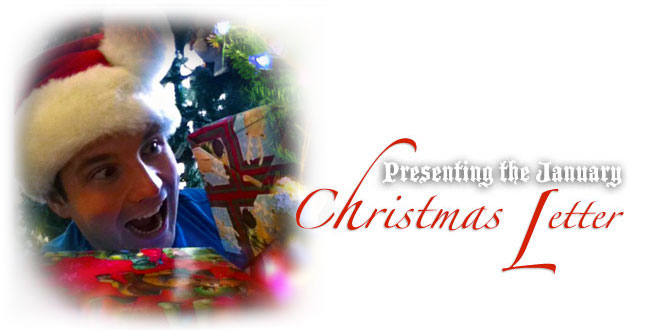
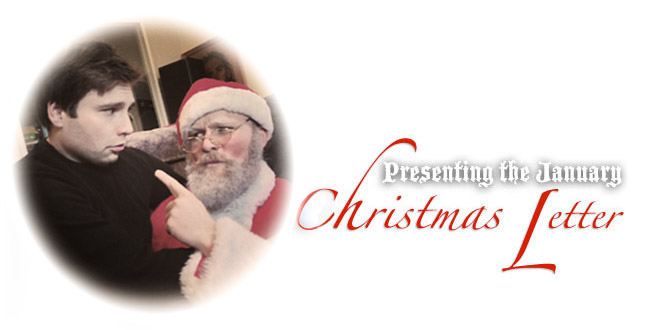
2012 Christmas Letter!

diff --git a/xmas2012/index.html b/xmas2012/index.html
@@ -1,7 +1,7 @@
 <!DOCTYPE html PUBLIC "-//W3C//DTD XHTML 1.0 Transitional//EN" "http://www.w3.org/TR/xhtml1/DTD/xhtml1-transitional.dtd">
 <html>
   <head>
-    <title>Jon Suderman&#x27;s 2011 Christmas Newsletter</title>
+    <title>Jon Suderman&#x27;s 2012 Christmas Newsletter</title>
     <meta content="no" http-equiv="imagetoolbar" />
     <meta content="IE=EmulateIE7" http-equiv="X-UA-Compatible" />
 
@@ -24,7 +24,7 @@ tbody, tfoot, thead, tr, th, td { margin: 0; padding: 0; border: 0; outline: 0; 
   body { background: #fff; color: #222; font-family: Georgia, Garamond, serif; }
   h1 { font-size: 26px; margin: 0 0 15px 0; line-height: 1.2; letter-spacing:3px;}
   p { font-size: 15px; margin: 0 0 15px 0; line-height: 2; text-align:justify; }
-  a { color: #d10b0b; text-decoration: underline; }
+  a { color: #d10b0b; ccolor: #555; text-decoration: underline; }
   a:hover { text-decoration: underline; }
   a:focus { outline: 0; }
   span.first { color:#d10b0b; font-size:30px; font-weight:normal; line-height:1;} 
@@ -34,7 +34,7 @@ tbody, tfoot, thead, tr, th, td { margin: 0; padding: 0; border: 0; outline: 0; 
 
 
   </head>
-  <body style="background:#fff url(http://suderman.me/xmas2011/bg.gif) top center repeat-y; color: #222; font-family: Georgia, Garamond, serif;">
+  <body style="background:#fff url(http://suderman.me/xmas2012/bg.gif) top center repeat-y; color: #222; font-family: Georgia, Garamond, serif;">
     <table cellpadding="0" cellspacing="10" width="100%">
       <tr>
         <td align="center" valign="top">
@@ -44,7 +44,7 @@ tbody, tfoot, thead, tr, th, td { margin: 0; padding: 0; border: 0; outline: 0; 
                 <table cellpadding="0" cellspacing="0" width="650">
                   <tr>
                     <td>
-                      <img src="http://suderman.me/xmas2011/masthead.jpg" width="650" height="330" />
+                      <img src="http://suderman.me/xmas2012/masthead.jpg" width="650" height="330" />
                     </td>
                   </tr>
                 </table>
@@ -52,87 +52,127 @@ tbody, tfoot, thead, tr, th, td { margin: 0; padding: 0; border: 0; outline: 0; 
                   <tr>
                     <td>
 
-                      <h1 style="font-family: Georgia, Garamond, serif; color:#222; font-size:30px; font-weight:normal; line-height:1;">Holly jolly greetings to y&#x27;all.</h1>
+<h1 style="font-family: Georgia, Garamond, serif; color:#222; font-size:30px; font-weight:normal; line-height:1;">
+  Hark! Jon Suderman's 2012 Newsletter!</h1>
 
-                      <p style="font-family: Georgia, Garamond, serif; color: #222; font-size: 15px; margin: 0 0 15px 0; line-height: 2; text-align:justify;"><strong><span class="first" style="color:#d10b0b; font-size:30px; font-weight:normal; line-height:1;">I</span> bet you all thought I forgot, didn&#x27;t you? Wrongo!</strong> Once again, twelve months have passed and the time has come for another recap on Jon Suderman's year. So far, I&#x27;ve spammed my friends &amp; family with this particular newsletter <em>three times</em>; seeing how no one has complained yet, let&#x27;s up that count to <em>four!</em></p>
+<p style="font-family: Georgia, Garamond, serif; color: #222; font-size: 15px; margin: 0 0 15px 0; line-height: 2; text-align:justify;"><strong><span class="first" style="color:#d10b0b; font-size:30px; font-weight:normal; line-height:1;">
+  A</span>s expected,</strong> the week between Christmas and New Years prompts pensive reflections on the twelve months gone by. Twenty-twelve was very good to me and I'm feeling over-blessed. As is the tradition (and until you ask me to stop), I'll recap my life's narrative this past year:
+</p>
 
-                      <img align="right" src="http://suderman.me/xmas2011/cake.jpg" width="250" height="290" />
+<img align="right" src="http://suderman.me/xmas2012/snow.jpg" width="300" height="380" /> 
 
-                      <p style="font-family: Georgia, Garamond, serif; color: #222; font-size: 15px; margin: 0 0 15px 0; line-height: 2; text-align:justify;"><strong><span class="first" style="color:#d10b0b; font-size:30px; font-weight:normal; line-height:1;">J</span>anuary 2011 feels like a really long time ago.</strong> Plenty hasn&#x27;t changed since the previous year: I still live in the Calgary southwest, in a house co-owned with my brother, Andrew. Our delightful tenant, Braden, quietly occupies the basement. He complains very little; only my midnight snacking in the kitchen directly above his bedroom disturbs his slumber&hellip; an activity I ought not participate, in the first place. Across the dividing line, my parents live in the Calgary southeast, with my sister still under their wing. Cold Canadian winters prompt many visits, ever since they&#x27;ve installed their new hot tub. Given how delightful my company is, they don&#x27;t mind.</p>
+<p style="font-family: Georgia, Garamond, serif; color: #222; font-size: 15px; margin: 0 0 15px 0; line-height: 2; text-align:justify;"><strong><span class="first" style="color:#d10b0b; font-size:30px; font-weight:normal; line-height:1;">
+  J</span>anuary 2012 springboarded a lot of new experiences my way,</strong> thanks to my budding relationship with Janessa. We had been matched on eHarmony in November and had our first date one month later at the <a href="http://www.calgaryzoo.com/zoolights/">Calgary Zoo</a>. All of a sudden, my recreational time was filled with frequent visits to the country, horseback riding, and <em><a href="http://www.albertadancesport.com/workshops/index.aspx">even dancing lessons!</a></em> We embarked on our first escapade snowshoeing across the Alberta-British Columbia border to <a href="http://www.alpineclubofcanada.ca/facility/elklakes.html">Elk Lakes Cabin</a> (this was winter beauty at its finest). And on many occasions, my ears were treated to personal concerts, courtesy of Nessie's musical talent. Life was really, really good. :-) </p>
 
-<img align="left" src="http://suderman.me/xmas2011/car.jpg" width="328" height="297" />
+<p style="font-family: Georgia, Garamond, serif; color: #222; font-size: 15px; margin: 0 0 15px 0; line-height: 2; text-align:justify;"><strong><span class="first" style="color:#d10b0b; font-size:30px; font-weight:normal; line-height:1;">
+  F</span>ebruary was loaded with adventure!</strong> We started off with a weekend getaway to the Banff Spring Hotel, along with the dodgeball team&mdash;the roster including Andrew, Jessica, Braden, Dan &amp; Emily, Doreen, Donna &amp; Ross (Honeybadgers don't care)! Thanks to the goodness of Doreen (and Andrew's pestering), I've had the treat of staying in that castle more often than what's fair! 
+  
+<img src="http://suderman.me/xmas2012/cruise.jpg" width="650" height="355" />
 
-                      <p style="font-family: Georgia, Garamond, serif; color: #222; font-size: 15px; margin: 0 0 15px 0; line-height: 2; text-align:justify;"><strong><span class="first" style="color:#d10b0b; font-size:30px; font-weight:normal; line-height:1;">F</span>ebruary was a much busier month!</strong> My dodgeball team packed our bags and road tripped northward for the Battle of Alberta tournament in Red Deer. How did we place? Well that&#x27;s not important. The <em>important</em> thing is that we had fun! (and that we did NOT place dead last...)</p>
+<p style="font-family: Georgia, Garamond, serif; color: #222; font-size: 15px; margin: 0 0 15px 0; line-height: 2; text-align:justify;">
+And that was only the beginning, because the next week Janessa, Andrew, Jess and I hopped a plane to meet the Leclairs (Uncle Andy, Aunt LaVonne, cousins Jayden &amp; Jenna) in Tampa, Florida. We spent the day at Busch Gardens (it's a rollercoaster zoo!) before meeting my parents and grandparents on a Caribbean cruise ship, destined for big family-fun-time! Mom loves family-fun-time. After visiting Grand Cayman, Cozumel, Belize (<em>it was un-belize-able!</em>) and Roatan, Janessa took the main stage braving 2000 fans and performed as Britney Spears in the cruise ship's singing competition spectacular. Really! Complete with costume and backup-dancers, she brought down the ship!</p>
 
-<p style="font-family: Georgia, Garamond, serif; color: #222; font-size: 15px; margin: 0 0 15px 0; line-height: 2; text-align:justify;">Next big event? I learned how to drive a manual transmission. This was out of necessity seeing how the car I bought wasn&#x27;t an automatic and I&#x27;ve never touched a clutch in my life. Yes, I finally retired the Squirrel-love breakfast-mobile (1993 Intrepid), and adopted a 2007 Imprezza. I love my lil' Subie, but <em>it</em> must have hated <em>me</em> those first few weeks; I stalled the poor engine more often than I care to recall. It was worth it, though! And now driving is fun again. :-)</p>
+<img src="http://suderman.me/xmas2012/pool.jpg" width="650" height="410" /> 
 
-<img src="http://suderman.me/xmas2011/vegas.jpg" width="650" height="514"  /> 
+<p style="font-family: Georgia, Garamond, serif; color: #222; font-size: 15px; margin: 0 0 15px 0; line-height: 2; text-align:justify;">
+Back on land, we rounded of the trip with our obligatory visit to Walt Disney World and got our fix of Mickey-magic. The new <a href="https://www.youtube.com/watch?v=E8_znMKh8qM">Fantasyland expansion</a> wasn't open yet, but that's the perfect excuse to visit again soon. We also couldn't pass up Universal Studio's Islands of Adventure to see the new <a href="http://www.universalorlando.com/harrypotter/">Wizarding World of Harry Potter</a> and gulp down our very first butter beer! Shockingly, I'm pretty sure there wasn't any actual <em>beer</em> in it.</p>
+ 
+<img align="right" src="http://suderman.me/xmas2012/butterbeer.jpg" width="260" height="245" />
 
+<p style="font-family: Georgia, Garamond, serif; color: #222; font-size: 15px; margin: 0 0 15px 0; line-height: 2; text-align:justify;"><strong><span class="first" style="color:#d10b0b; font-size:30px; font-weight:normal; line-height:1;">
+  M</span>arch was a chance to take a breather from all the travelling.</strong> It was also time for me to being my training as the Calgary Marathon was only three months away! With the help of my boss and his big truck, I purchased a (<em>very heavy</em>) gym-grade treadmill for my basement. It's actually the exact same model I used to run on at the gym. So long, 8-year membership at the YMCA! And to make sure the treadmill didn't become an expensive laundry rack, I installed a 39" TV on the wall with a 5.1 suround-sound system to keep me active. It's fantastic motivation!</p>
 
+<img align="left" src="http://suderman.me/xmas2012/maui.jpg" width="250" height="245" />
 
-<p style="font-family: Georgia, Garamond, serif; color: #222; font-size: 15px; margin: 0 0 15px 0; line-height: 2; text-align:justify;">Later that month, my siblings and dodgeball team packed our bags AGAIN. This time, the excuse was a trip to Las Vegas&mdash;escaping Calgary&#x27;s unforgiving weather. We stayed in the Paris hotel, watched Cirque Du Soleil, took in the Phantom of the Opera, shouted at the Tournament of Kings, and screamed during The Price is Right (&quot;Andrew Suderman, come on doooown!&quot;). Don't worry, mom; only wholesome memories in Sin City!</p>
+<p style="font-family: Georgia, Garamond, serif; color: #222; font-size: 15px; margin: 0 0 15px 0; line-height: 2; text-align:justify;"><strong><span class="first" style="color:#d10b0b; font-size:30px; font-weight:normal; line-height:1;">
+  A</span>pril kicked off with the annual pranks one expects.</strong> This year, Jessica shrink-wrapped my car (Andrew's too!) but we were quick to retaliate. She left incriminating evidence at the crime scene (her cell phone), so we returned it... secured to the ceiling (where she would hear it ring, but never be able to find). Additionally, we nailed shut her bedroom with a large <em>CONDEMNED</em> sign. Ahh... brotherly satisfaction!</p>
 
-<img align="right" src="http://suderman.me/xmas2011/dodgeball.jpg" width="250" height="279" />
+<img align="right" src="http://suderman.me/xmas2012/beach.jpg" width="300" height="324" /> 
 
-                      <p style="font-family: Georgia, Garamond, serif; color: #222; font-size: 15px; margin: 0 0 15px 0; line-height: 2; text-align:justify;"><strong><span class="first" style="color:#d10b0b; font-size:30px; font-weight:normal; line-height:1;">M</span>arch hit, and we thought: why not join another dodgeball tournament?</strong> This one was &quot;country club&quot;-themed, and although we didn&#x27;t win the tourney, we DID win the best photo contest! And no, we did not actually <em>use</em> the tennis rackets while playing dodgeball. Later that month, we stayed at the Chateau Lake Louise for a ski-trip with Doreen and friends (as always, she&#x27;s our secret weapon against expensive hotels!). Ritzy buffets are delicious, but they're doubley-delicious at half the price! Doreen, you are never ever allowed to quit your Sheraton job. ;-)</p>
+<p style="font-family: Georgia, Garamond, serif; color: #222; font-size: 15px; margin: 0 0 15px 0; line-height: 2; text-align:justify;">After that April foolishness, I joined Ness and her family in Maui for a little Hawaiian relaxation. I stayed in some random lady's house (<a href="https://www.airbnb.ca/">Airbnb</a>) only a short walk away from Ness, Luke and her parents, Kevin &amp; Connie. I experienced my first tropical Easter&mdash;complete with a Polynesian-style worship service and a Cadbury mini-egg hunt! They spoiled me and I loved it. It took great discipline, but I stuck to my marathon training schedule and enjoyed the most beautiful (and warmest!) training runs I've ever done. Once those were out of the way, it was all white sand and shaved ice. Hawaii is heavenly and it won't surprise me if I find myself living there one day. Oh, and in case you ever visit Maui, go see <a href="http://www.warrenandannabelles.com/">Warren &amp; Annabelle's Magic Show</a>... but beware of Little Beach&mdash;it's all naked and awkward.</p>
 
-<img align="left" src="http://suderman.me/xmas2011/run.jpg" width="328" height="375" />
+<img align="left" src="http://suderman.me/xmas2012/marathon.jpg" width="312" height="398" />
 
+<p style="font-family: Georgia, Garamond, serif; color: #222; font-size: 15px; margin: 0 0 15px 0; line-height: 2; text-align:justify;"><strong><span class="first" style="color:#d10b0b; font-size:30px; font-weight:normal; line-height:1;">
+  M</span>ay involved a lot of running!</strong> I was very proud of Janessa when she agreed to participate in the city's <a href="http://www.mdrunandwalk.com/">Mother's Day race</a> and completed 5k with the rest of my family (I'm also proud of your 10k's, Mom &amp; Dad, Andrew, Jess &amp; Braden!). Perhaps next year we'll convince Connie to join us? When the end of the month arrived, I was excited/nervous to finally run in the 42k <a href="http://www.calgarymarathon.com/">Calgary Marathon</a>. I hadn't participated in this race for several years, and it was an awesome experience for me. Janessa followed my progress and met me throughout the course at multiple mile markers&mdash;what a cheerleader! I finished 679/975 with a time of 4:32:10 (my new personal best!).</p>
 
-                      <p style="font-family: Georgia, Garamond, serif; color: #222; font-size: 15px; margin: 0 0 15px 0; line-height: 2; text-align:justify;"><strong><span class="first" style="color:#d10b0b; font-size:30px; font-weight:normal; line-height:1;">A</span>pril was the month my running kicked up a notch,</strong> in preparation for the Calgary Marathon. Even though some don&#x27;t mind trekking through <em>too</em> much snow, I prefer the safety of a treadmill and the entertainment of Disney movies to pass the time. Watching movies is epspecially helpful when your training schedule demands three hours of running! Later, Andrew, Braden and I ran the Theatre Calgary Big Run&mdash;a half marathon through Bowness Park. April was also the month for Easter! I wore my Sunday best&mdash;a collar shirt.</p>
+<img align="right" src="http://suderman.me/xmas2012/sumo.jpg" width="344" height="330" />
 
-                     <img align="right" src="http://suderman.me/xmas2011/finger.jpg" width="300" height="350" /> 
+<p style="font-family: Georgia, Garamond, serif; color: #222; font-size: 15px; margin: 0 0 15px 0; line-height: 2; text-align:justify;"><strong><span class="first" style="color:#d10b0b; font-size:30px; font-weight:normal; line-height:1;">
+  J</span>une rang in my 30th birthday&mdash;gasp!</strong> Thanks to the highly secretative efforts from my mom and girlfriend (she tried <em>so</em> hard to be sneaky!), I was treated to a surprise birthday party featuring sushi and sumo suits&mdash;a flattering outfit for any aging  fellow! Ness gave me rollerblades, which triggered a new summer activity. I hadn't walked on wheels since I was a little kid, and quickly learned the importance of braking! </p>
 
-                     <p style="font-family: Georgia, Garamond, serif; color: #222; font-size: 15px; margin: 0 0 15px 0; line-height: 2; text-align:justify;"><br><strong><span class="first" style="color:#d10b0b; font-size:30px; font-weight:normal; line-height:1;">M</span>ay kicked off with another familiar race&mdash;the Mother&#x27;s Day Run &amp; Walk.</strong> This is a 10k that my family and I have done for several years now and is a healthy alternative to serving mom a greasy breakfast in bed. RIGHT MOM? Sadly, this was also the month that threw a monkey wrench in my marathon training; I suffered my first broken bone when a dodgeball grazed my finger exactly the wrong way. Dan drove me to the hospital where the doctors set the bone and wrapped me up. Because of the cast, and the risk of unsetting the bone, the doc told me to skip the Calgary Marathon. I was pretty choked over that. Later, a proper splint was made for me, followed by many visits of physio. Breaking a bone is very annoying!</p>
+<p style="font-family: Georgia, Garamond, serif; color: #222; font-size: 15px; margin: 0 0 15px 0; line-height: 2; text-align:justify;">
+  I wasn't all done with running, though. My dad and I participated in a new race&mdash;the <a href="http://www.millarvillehalfmarathon.com/">Millarville Half Marathon</a>. It was south of the city and the rolling green hills were Hobbiton-esque. I finished 53/263 with a time of 1:48:36. Later, the dodgeball team headed west to stay at the Chateau Lake Louise (thanks again, Doreen)! Our attempt at hiking was cut short by massive amounts of snow blocking the trail and refusing to melt for us! Unfortunately, winter lingers in the mountains. North of the city, I experienced my first <a href="http://www.sundrerodeo.com/">Sundre Rodeo</a> with Janessa and her folks. My favourite event has to be the Wild Cow Milking... it doesn't get much weirder than that!</p>
 
-<img align="left" src="http://suderman.me/xmas2011/broken.jpg" width="328" height="246" />
+<img src="http://suderman.me/xmas2012/july.jpg" width="650" height="384" />
 
-                     <p style="font-family: Georgia, Garamond, serif; color: #222; font-size: 15px; margin: 0 0 15px 0; line-height: 2; text-align:justify;">May wasn&#x27;t all bad though; towards the end of the month, we had a family road trip to Winnipeg to celebrate my grandpa&#x27;s 80th birthday. It was a long drive for a quick visit, but I had a blast seeing my Manitoba relatives again!</p>
+<p style="font-family: Georgia, Garamond, serif; color: #222; font-size: 15px; margin: 0 0 15px 0; line-height: 2; text-align:justify;"><strong><span class="first">
+  J</span>uly 1st is Canada Day</strong> and I spent the day with Ness rafting the Bow River and watching fireworks at <a href="http://www.calgaryarea.com/calgary_parks/princess_island_park/princess.htm">Prince's Island Park</a>. It was the Calgary Stampede's centennial year and we had company (Uncle Roy &amp; Aunt Jeanine, Uncle Rod &amp; Aunt Betty Jo) visit for that, plus our annual "Christmas in July" extravaganza&mdash;complete with carols and gifts under the tree! That same month, I saw many of Janessa's relatives at Kevin &amp; Connie's, celebrating her grandparents' 50th anniversary. There was an abundance of food and the "family band" played Elvis hits all afternoon. I love visiting where Ness grew up&mdash;they built a log house on 40 acers of woodland with a pond and four horses. We usually stay a couple weekends every month as I attempt to level-up my elite horse riding skills!</p>
 
+<img src="http://suderman.me/xmas2012/band.jpg" width="650" height="406" /> 
+<img align="right" src="http://suderman.me/xmas2012/mud.jpg" width="380" height="380" />
 
-                      <p style="font-family: Georgia, Garamond, serif; color: #222; font-size: 15px; margin: 0 0 15px 0; line-height: 2; text-align:justify;"><strong><span class="first" style="color:#d10b0b; font-size:30px; font-weight:normal; line-height:1;">J</span>une arrived and I celebrated my last twenty-something birthday.</strong> Time relentlessly ticks on. With my finger healed up (enough), I was able to return to my marathon training. Yes, the Calgary Marathon was a miss, but I had a backup race: the Rock &#x27;n&#x27; Roll Seattle Marathon. The Sudermans set out on yet another family road trip&mdash;this time to visit the Berkans. Everybody in our group ran the half marathon, except for Andrew and I&mdash;we ran the full; making it my 5<sup>th</sup> full marathon. I really enjoyed this race; nearly every mile featured a live band, encouraging all the runners with their music. While in the area, we also caught a Mariners baseball game and later rode the ferry to Victoria.</p>
+<p style="font-family: Georgia, Garamond, serif; color: #222; font-size: 15px; margin: 0 0 15px 0; line-height: 2; text-align:justify;">
+  This year had one more race to tackle, and again Janessa made me very proud. We ran the <a href="http://www.mudhero.com/">Mud Hero</a> 6k obstacle course over climbing walls and through pits of mud on our bellies. She ran the whole distance (without stopping) along with Jess &amp; Braden, and we all finished <em>extremely filthy!</em> Good times before I had to drive Ness to the airport and say goodbye&mdash;for the next three weeks, Ness would be travelling the world on a <a href="http://www.contiki.com/destinations/europe/tours">Contiki Tour</a> of Europe, leaving me to fend for myself... <em>gulp!</em></p>
 
-<img src="http://suderman.me/xmas2011/marathon.jpg" width="650" height="377"  /> 
+<p style="font-family: Georgia, Garamond, serif; color: #222; font-size: 15px; margin: 0 0 15px 0; line-height: 2; text-align:justify;"><strong><span class="first" style="color:#d10b0b; font-size:30px; font-weight:normal; line-height:1;">
+  A</span>ugust began with a family camping trip in Radium Hot Springs,</strong> along with the Leclairs visiting from Winnipeg. Hot springs and hiking is great fun, but I was admittedly distracted and spent a lot of time attempting to keep in contact with Ness. The love-sickness&mdash;it got me!</p>
 
-                      <p style="font-family: Georgia, Garamond, serif; color: #222; font-size: 15px; margin: 0 0 15px 0; line-height: 2; text-align:justify;"><strong><span class="first">J</span>uly in Calgary means everybody cowboys up for Stampede,</strong> and this is especially true for me and my co-workers. The Calgary Stampede is a big client of nonfiction studios (we do many of their websites), and so once again, I received a gate pass for the event. This meant that every lunch hour, I would wander on the grounds (it&#x27;s only 5 minutes away) and find something horribly unhealthy to eat. Pizza-on-a-stick, deep-fried pop tarts, doughnut burgers; I found many ways to challenge my stomach. The 10 day event is a spectacle many locals pass on, but I love the whole thing. Yahoo!</p>
+<img align="left" src="http://suderman.me/xmas2012/brighton.jpg" width="344" height="330" />
 
+<p style="font-family: Georgia, Garamond, serif; color: #222; font-size: 15px; margin: 0 0 15px 0; line-height: 2; text-align:justify;">
+  This problem was soon remedied when I flew to the United Kingdom to meet Janessa at the tail end of her tour. It sure felt like a lot longer than three weeks when I finally caught up with Ness on the train departing Gatwick! We spent the next ten days in bliss, visiting her relatives in Brighton, Southampton and Cornwall&mdash;all phenomenal people who made our trip really memorable. A north-bound train took us past sheep-dotted fields to Edinburgh, Scottland to see the Military Tattoo, leaving the last three days to soak up London, England. I've visited Europe before, but this was my first time in Great Britain and it sure is convenient how everything is written in English. Also, cream tea is <em>not</em> to be missed! It's a fascinating place crammed with history and we had a jolly good time. :-) </p>
 
-<img src="http://suderman.me/xmas2011/hike.jpg" width="650" height="417" />
+<img src="http://suderman.me/xmas2012/castles.jpg" width="650" height="384" />
 
-<p style="font-family: Georgia, Garamond, serif; color: #222; font-size: 15px; margin: 0 0 15px 0; line-height: 2; text-align:justify;"><strong><span class="first" style="color:#d10b0b; font-size:30px; font-weight:normal; line-height:1;">A</span>ugust was a month of hiking and racing!</strong> My church formed a new outdoors club and had planned all sorts of adventures for us. Early in the month, we backpacked Yoho National Park, and after that, Ribbon Falls &amp; Guinn&#x27;s Pass. Before this, I&#x27;d never hiked with a tent on my back before, so it wasn&#x27;t until this summer I finally got a taste of what &quot;real&quot; camping is like! My conclusion? I prefer sleeping in a bed.</p>
-                    
-                    <img align="right" src="http://suderman.me/xmas2011/spartan.jpg" width="375" height="360" />   
-                    
-<p style="font-family: Georgia, Garamond, serif; color: #222; font-size: 15px; margin: 0 0 15px 0; line-height: 2; text-align:justify;">As for racing, Jess and several friends of mine attempted Calgary&#x27;s first Spartan Race. It&#x27;s a 5 km obstacle course, with challenges like climbing over walls, carrying rocks uphill, and crawling under barbed wire through the mud. It was definitely the hardest 5 km I&#x27;ve ever run! However, this race was nothing compared to the race Andrew and Braden had next: Ironman Canada. It&#x27;s a formidable challenge: 3.8 km swim, 180 km bike, and 42 km run&mdash;this was Braden&#x27;s first Ironman, and Andrew&#x27;s fourth. The race was in Penticton and we made another family road trip (plus Doreen!) out of the event. It&#x27;s a fun race to watch and cheer on.</p>
-
-<img src="http://suderman.me/xmas2011/ironman.jpg" width="650" height="360" />
-
-<p style="font-family: Georgia, Garamond, serif; color: #222; font-size: 15px; margin: 0 0 15px 0; line-height: 2; text-align:justify;">On the way back, we stopped to stay a night at the Banff Springs Hotel (thanks Doreen!) to celebrate Andrew and Braden's admirable efforts. The weather in Banff was crisp compared to Penticton, but had a fun time wandering the "castle" and exploring the area outside. Of course, we ate at our favourite restaurant, (which we&#x27;ve lovingly named &quot;Hagrid&#x27;s Hut&quot;) at the base of the castle.</p>
-
-<img align="left" src="http://suderman.me/xmas2011/abbott.jpg" width="220" height="258" />
-
-                      <p style="font-family: Georgia, Garamond, serif; color: #222; font-size: 15px; margin: 0 0 15px 0; line-height: 2; text-align:justify;"><strong><span class="first">S</span>eptember was quieter,</strong> but the activities were similar to the previous month.</strong> My work participated in the Calgary Corporate Challenge and volunteered me for the 10 km race. And at the end of the month, my church had another overnight hike to Abbott Pass. I&#x27;ve hiked Lake O&#x27;Hara before, but I&#x27;ve never gone up to the pass before. At the top is a 90-year-old stone hut where our group spent the night. It was very remote and pretty amazing, actually! Recommended.</p>
-
-<img align="right" src="http://suderman.me/xmas2011/gumball.jpg" width="250" height="279" />
-
-<p style="font-family: Georgia, Garamond, serif; color: #222; font-size: 15px; margin: 0 0 15px 0; line-height: 2; text-align:justify;"><strong><span class="first">O</span>ctober was the beginning of my parents&#x27; new floor.</strong> They wanted engineered hardwood, over nearly the entire main floor, and figured it&#x27;d be a fun family project to just do ourselves. No, we didn&#x27;t know a thing about flooring, and yes, it was a lot of work. It may have taken five separate weekends, but Andrew and I have earned a multitude of a free dinners as a result! Also, Thanksgiving and Halloween were fun and food-heavy as usual. I dressed up as a gum ball machine but nobody was able to guess my costume. I'll have to come up with something better next year.</p>
-
-<img align="left" src="http://suderman.me/xmas2011/cannon.jpg" width="179" height="258" />
-
-                      <p style="font-family: Georgia, Garamond, serif; color: #222; font-size: 15px; margin: 0 0 15px 0; line-height: 2; text-align:justify;"><strong><span class="first" style="color:#d10b0b; font-size:30px; font-weight:normal; line-height:1;">N</span>ovember began with a trip to Portland, Oregon.</strong> Work sent me out that way for a conference, which was really fantastic despite the hipsters! I was also able to spend a couple days in Portland's neighbouring city: Vancouver, Washington. I hadn&#x27;t been out there since my grandfather&#x27;s funeral, and had a wonderful time staying with Uncle Roy &amp; Aunt Jeanine, and visiting Uncle Rod, Aunt Betty-Jo, with cousins David &amp; Christina. I've never been there all on my own before, so this time I had all their attention to <em>myself</em>! Also: those Jacobsons sure know how to feed me, properly!</p>
-
-<img align="right" src="http://suderman.me/xmas2011/hotel.jpg" width="300" height="337" />
-
-<p style="font-family: Georgia, Garamond, serif; color: #222; font-size: 15px; margin: 0 0 15px 0; line-height: 2; text-align:justify;">Later that month (and after Sudermanor's 3<sup>rd</sup> Annual November Christmas Party), the dodgeball team organized yet another trip together. This time: Kalispell, Montana. The big idea was Black Friday shopping&mdash;I can assure you we got the full, insane experience. Thankfully, nobody was trampled at Walmart&hellip; but I can hardly see myself ever again needing to shop at 1:30 in the morning; nor do I feel compelled to wait another hour in Best Buy&#x27;s checkout line, in the wee hours, when all decent people are asleep in their beds. ;-) I do love visiting the USA, though; they have Cherry Coke!</p>
+<p style="font-family: Georgia, Garamond, serif; color: #222; font-size: 15px; margin: 0 0 15px 0; line-height: 2; text-align:justify;">
+  Ness and I returned home in time for another mountainous hike with my church's Outdoor Club, trekking up to <a href="http://www.alpineclubofcanada.ca/facility/bow.html">Bow Hut</a>. It's situated next to the glacier which happens to be the water source for the river we rafted in July. Ness and Jess continued to bond on this trip, ultimately moving my secret plans forward. More on <em>that</em> in September...</p>
 
 
-                      <p style="font-family: Georgia, Garamond, serif; color: #222; font-size: 15px; margin: 0 0 15px 0; line-height: 2; text-align:justify;"><strong><span class="first" style="color:#d10b0b; font-size:30px; font-weight:normal; line-height:1;">D</span>ecember: I suppose I was saving the best for last.</strong> After a month of emails, phone calls and text messages, my girlfriend, Janessa, moved to Calgary&mdash;and I&#x27;ve had the best Christmas I can remember! It&#x27;s been filled with family, friends, food, games, horseback riding, food, snow tubing, parties, hot tubs, and food. Did I mention food? Please people, for my own health's sake, you must keep any chocolate and eggnog <em>away</em> from my peripherals! I'M WEAK. ;-)</p>
+<img align="right" src="http://suderman.me/xmas2012/horses.jpg" width="260" height="245" />
 
-<img src="http://suderman.me/xmas2011/smug.jpg" width="650" height="410"  /> 
 
-                      <p style="font-family: Georgia, Garamond, serif; color: #222; font-size: 15px; margin: 0 0 15px 0; line-height: 2; text-align:justify;"><strong><span class="first" style="color:#d10b0b; font-size:30px; font-weight:normal; line-height:1;">T</span>wenty-twelve is looking mighty-fine</strong> and I&#x27;m eager to experience everything it has to offer. I hope you have a spectacular year and that God blesses you and yours.</p>
+<p style="font-family: Georgia, Garamond, serif; color: #222; font-size: 15px; margin: 0 0 15px 0; line-height: 2; text-align:justify;"><strong><span class="first">
+  S</span>eptember signaled the end of summer and the start of new beginnings.</strong> Ness and I helped Jess move to Edmonton for school&mdash;her first time out of the nest. We made a trip out of it and first visited Janessa's parents for horse riding, then spent an afternoon at West Edmonton Mall's waterpark, and had dinner with <a href="http://brocktyler.bandcamp.com/album/lights/">Brock</a> &amp; Karmyn.</p>
 
-<img align="right" src="http://suderman.me/xmas2011/sig.gif" width="380" height="110" />
+
+<p style="font-family: Georgia, Garamond, serif; color: #222; font-size: 15px; margin: 0 0 15px 0; line-height: 2; text-align:justify;">
+  Janessa's 25th birthday had come, and she invited my family, her family, and her relatives over for the big celebration. Little did she know I had ulterior motives in motion! I began by decorating the house with younger photos of her (of course), <em>AND</em> photos of the two of us (all romantic-like). I enlisted her mother's help and assembled a slideshow highlighting Janessa's years growing up. Halfway through, the slideshow <em>changed</em>. Now, there were pictures of the two of us, musically accompanied by the first song she performed for me. At the slideshow's denouement, Andrew &amp; Luke simultaneously unravelled an 8'x4' banner, proclaiming the question printed in large letters, <em>"Janessa: Will you marry me?"</em> I was already on one knee, ring presented, nervously reciting my proposal. ...she said "yes" without hesitation! Champaign was poured, and with our families already present, we had our engagement party right then and there. That felt good. <em>Real good</em>.</p>
+
+<img src="http://suderman.me/xmas2012/proposal.jpg" width="650" height="384" />
+
+
+  <p style="font-family: Georgia, Garamond, serif; color: #222; font-size: 15px; margin: 0 0 15px 0; line-height: 2; text-align:justify;">
+    And yes, I <em>did</em> ask for her parents' blessing first and they lovingly accepted me from the start. My mom &amp; dad were spectacularly supportive the whole journey and I really appreciate how much they love Janessa. And special thanks to Jessica's investigative efforts, shopping assistance from Andrew and Malinda, and everyone else for helping me with the part I'm most clueless&mdash;picking her perfect engagement ring!</p>
+
+
+<img align="left" src="http://suderman.me/xmas2012/hike.jpg" width="250" height="180" />
+
+<p style="font-family: Georgia, Garamond, serif; color: #222; font-size: 15px; margin: 0 0 15px 0; line-height: 2; text-align:justify;">
+  Post-proposal, I took Ness on another dangerous hike to reach <a href="http://www.alpineclubofcanada.ca/facility/abbot.html">Abbot Pass hut</a>. We ascended with my family and the Outdoor Club to stay the night in a 90-year-old stone hut on the top of the world. Later, I was enlisted in scuba diving lessons, courtesy of my bosses Darron and Robb. They're both scuba junkies and just wanted to share their subaqueous obsession! I passed the written exam and pool sessions, but I think I'll be waiting for warmer weather before finishing the open water dives!</p>
+
+<img align="right" src="http://suderman.me/xmas2012/fall.jpg" width="250" height="279" />
+
+<p style="font-family: Georgia, Garamond, serif; color: #222; font-size: 15px; margin: 0 0 15px 0; line-height: 2; text-align:justify;"><strong><span class="first">
+  O</span>ctober featured two Thanksgiving feasts but only one food coma.</strong> The weekends were busy because Janessa needed to move out. She had been living in the house her (recently passed) grandparents once owned, but it finally had been sold. Ness moved in with her brother Luke, and will be staying with him until the wedding next summer. The wedding venue was decided, too! We chose to exchange vows at the Calgary Zoo (and for those of you <em>not paying attention</em>, that's the location of our first date!). </p> 
+
+<img align="left" src="http://suderman.me/xmas2012/zoo.jpg" width="300" height="324" />
+
+<p style="font-family: Georgia, Garamond, serif; color: #222; font-size: 15px; margin: 0 0 15px 0; line-height: 2; text-align:justify;"><strong><span class="first" style="color:#d10b0b; font-size:30px; font-weight:normal; line-height:1;">
+  N</span>ovember was getting colder and darker, but Christmas was on its way!</strong> One snowy weekend, we travelled to <a href="http://www.rosebudtheatre.com/">Rosebud Theatre</a> to take in their holly jolly musical&mdash;and we loved it. The next day, we dino-dashed to Drumheller to prey upon the prehistoric predators at the Royal Tyrrell Museum of Palaeontology. <em>Rawr!</em> Later, Andrew and I decked the halls in preparation for our 4th Annual November Christmas Party at Sudermanor. This year's theme was "tacky Christmas mug" and Dan was voted winner for his Tim Horton's paper cup. It's also worth noting that this month marked my 5th year working at <a href="http://www.nonfiction.ca/">nonfiction studios</a>. I'm really blessed to have such a fun job making the Internet bigger!</p>
+
+<img align="right" src="http://suderman.me/xmas2012/lake.jpg" width="360" height="345" />
+
+
+<p style="font-family: Georgia, Garamond, serif; color: #222; font-size: 15px; margin: 0 0 15px 0; line-height: 2; text-align:justify;"><strong><span class="first" style="color:#d10b0b; font-size:30px; font-weight:normal; line-height:1;">
+  D</span>ecember was a month I didn't see very much of Janessa.</strong> She joined a community theatre group to perform in the pantomime, <a href="http://www.youtube.com/watch?v=T4t3Dp0iE2A">Aladdin</a>, at the Pumphouse Theatre in Calgary. This was a significant time commitment, but everyone loved seeing Ness sing and dance on stage&mdash;it's her natural environment! For Christmas itself, my immediate family and I flew to Vancouver, Washington. I hadn't spent a Christmas there since 1987! I felt nostalgic seeing my family together with Uncle Roy &amp; Aunt Jeanine, Uncle Rod &amp; Aunt Betty Jo, and cousins Christina, David &amp; Sara&mdash;all celebrating Christmas under the same roof! There was <em>so much</em> food! We made a lot of new memories, and hopefully more than just the one where I ralphed all over the <a href="http://www.thegrotto.org/christmas/">church</a> parking lot (don't ask)! Alas, my festive visit couldn't last longer, because Janessa was waiting for me back home. So I returned to my financ&eacute;e and did a second round of Christmas&mdash;this time with Ness and her folks. :-) </p>
+
+<img src="http://suderman.me/xmas2012/christmas.jpg" width="650" height="340"  /> 
+
+<p style="font-family: Georgia, Garamond, serif; color: #222; font-size: 15px; margin: 0 0 15px 0; line-height: 2; text-align:justify;"><strong><span class="first" style="color:#d10b0b; font-size:30px; font-weight:normal; line-height:1;">
+  T</span>wenty-twelve was my last year as a bachelor&mdash;that's good news for me!</strong> By the looks of it, twenty-thirteen is shaping up to be an incredible year of change and I can't wait to see what God has in store for me and my almost-wife. Thanks for reading my annual journal entry. I hope your year-last was a blast and your year-next will be blessed. Until I spam you again..!</p>
+
+<img align="right" src="http://suderman.me/xmas2012/sig.gif" width="380" height="110" />
 
                     </td>
                   </tr>
@@ -140,7 +180,7 @@ tbody, tfoot, thead, tr, th, td { margin: 0; padding: 0; border: 0; outline: 0; 
               </td>
             </tr>
           </table>
-          <img height="58" src="http://suderman.me/xmas2011/footer.gif" width="650" />
+          <img height="58" src="http://suderman.me/xmas2012/footer.gif" width="650" />
         </td>
       </tr>
       <tr>
